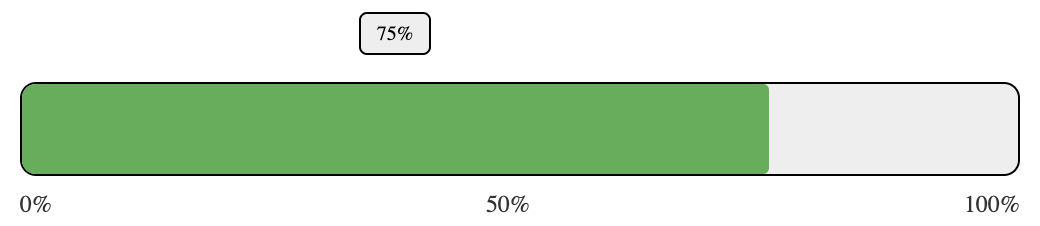
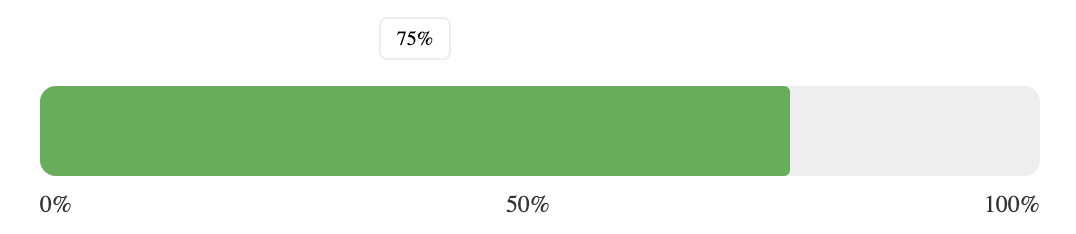
update style

diff --git a/projects/ngx-progress-chart/src/lib/ngx-progress-chart.component.ts b/projects/ngx-progress-chart/src/lib/ngx-progress-chart.component.ts
@@ -73,6 +73,7 @@ import { Component, Input, OnInit, SimpleChanges } from '@angular/core';
         color: #000;
         animation: fadeIn 0.8s forwards !important;
         padding: 4px 8px;
+        border: 1px solid #eee;
         background-color: #fff;
       }
       .progress-labels {
@@ -99,7 +100,7 @@ import { Component, Input, OnInit, SimpleChanges } from '@angular/core';
     `,
   ],
 })
-export class NgxProgressBarChartComponent implements OnInit {
+export class NgxProgressChartComponent implements OnInit {
   @Input() labels: any[] = [];
   @Input() progressWidth: number = 0;
   @Input() tooltipClass: string = '';

diff --git a/projects/ngx-progress-chart/src/lib/ngx-progress-bar-chart.module.ts b/projects/ngx-progress-chart/src/lib/ngx-progress-bar-chart.module.ts
@@ -1,16 +1,18 @@
 import { NgModule } from '@angular/core';
-import { NgxProgressBarChartComponent } from './ngx-progress-chart.component';
+import { NgxProgressChartComponent } from './ngx-progress-chart.component';
+import { CommonModule } from '@angular/common';
 
 
 
 @NgModule({
   declarations: [
-    NgxProgressBarChartComponent
+    NgxProgressChartComponent
   ],
   imports: [
+    CommonModule
   ],
   exports: [
-    NgxProgressBarChartComponent
+    NgxProgressChartComponent
   ]
 })
-export class NgxProgressBarChartModule { }
+export class NgxProgressChartModule { }

diff --git a/projects/ngx-progress-chart/README.md b/projects/ngx-progress-chart/README.md
@@ -1,6 +1,14 @@
-# NgxProgressChart
 
+# ngx-progress-chart
 This library was generated with [Angular CLI](https://github.com/angular/angular-cli) version 14.2.0.
+A customizable lightweight progress chart for Angular applications.
+
+![Progress Chart Example](https://github.com/ssondoss/ngx-progress-chart/blob/main/projects/ngx-progress-chart/progress-bar-chart.png)
+
+## Features
+- Customizable
+- Lightweight
+- Native Angular code
 
 
 ## Installation
@@ -36,9 +44,13 @@ export class AppModule {}
 #### simple usage:
 ```html
 <ngx-progress-chart 
+    [labels]="['0%', '50%', '100%']"
     [progressWidth]="75"
+    [tooltipClass]="'custom-tooltip'"
     [tooltip]="'75%'"
+    [progressBarStyle]="{ 'background-color': '#eee' }"
     [progressFillStyle]="{ 'background-color': '#4caf50' }"
+    [labelsStyle]="{ 'font-size': '14px', color: '#333' }"
     >
 </ngx-progress-chart>
 ```
@@ -55,10 +67,10 @@ export class AppModule {}
   [progressBarClasses]="['custom-progress-bar']"
   [progressFillClasses]="['custom-progress-fill']"
   [labelsClasses]="['custom-label']"
-  [containerStyle]="{ 'background-color': '#f3f3f3', padding: '10px' }"
-  [progressBarStyle]="{ 'background-color': '#ddd' }"
-  [progressFillStyle]="{ 'background-color': '#4caf50' }"
-  [labelsStyle]="{ 'font-size': '14px', color: '#333' }"
+  [containerStyle]="{ ... }"
+  [progressBarStyle]="{ ... }"
+  [progressFillStyle]="{ ... }"
+  [labelsStyle]="{ ... }"
 ></ngx-progress-chart>
 ```
 define custom styles for the package in your ```global styles file```
